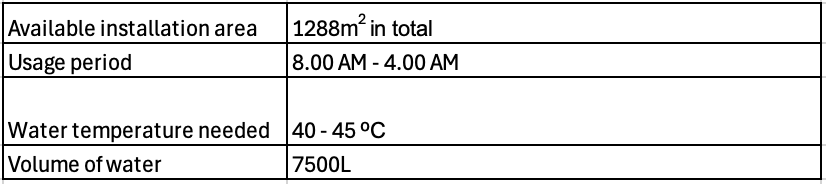
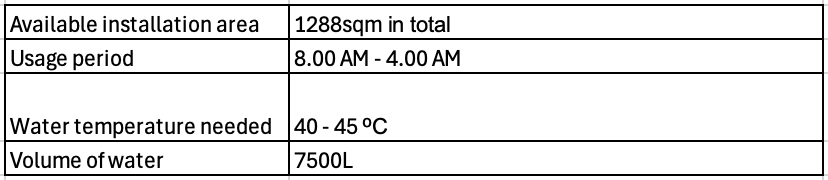
tt

Changed region(s): [[0.0, 0.0, 1.0, 1.0]]

diff --git a/ch2.html b/ch2.html
@@ -56,35 +56,27 @@
         <h1>2.0 System Design</h1>
         <h2>2.1 Case study</h2>
         <p>
-          The layout of the hotel is approximated below, with a usable implementation area of
-          <math>
-            <mn>1288</mn>
-            <msup>
-              <mi>m</mi>
-              <mn>2</mn>
-            </msup>
-          </math>
-          (greyed out) identified from the total land area of 0.5 hectares, using standard hotel width dimensions as a reference. [15]
+          The layout of the hotel is approximated below, with a usable implementation area of 1288sqm (greyed out) identified from the total land area of 0.5 hectares, using standard hotel width dimensions as a reference. [15]
         </p>
         <image-component tag="image" source="assets/tt_final/overall-system/dimensions-only.jpg"
-          subtitle="Figure 02: Dimensions of hotel"></image-component>
+          subtitle="Figure 2: Dimensions of hotel"></image-component>
         <div id = "proposed-system-design"> 
         <h2>2.2 Proposed System Design</h2>
         <p>
           The functional requirements of the client are as follows:
         </p>
         <image-component tag="image" source="assets/final-functional-req.jpg"
-          subtitle="Table 01: Functional requirements of hotel [13][14]"></image-component>
+          subtitle="Table 1: Functional requirements of hotel [13][14]"></image-component>
         <p>
           The final proposed system is as follows:
         </p>
         <image-component tag="image" source="assets/tt_final/overall-system/overall-system-layout.jpg"
-          subtitle="Figure 03: Overall system layout"></image-component>
+          subtitle="Figure 3: Overall system layout"></image-component>
         <p>
           The proposed system consists of modular islands, where each island consists of multiple rigs (receiver and reflectors) connected to a thermal energy storage (TES) tank (see below).
         </p>
         <image-component tag="image" source="assets/tt_final/overall-system/system-layout-system-of-rigs.jpg"
-          subtitle="Figure 04: Layout of island"></image-component>
+          subtitle="Figure 4: Layout of island"></image-component>
         <p>
           Water is supplied to the TES tank via the water mains, which also provides pressure to drive flow to the hot water storage tank and subsequently to the showers. The hot water storage tank is located in the hotel where it reduces delay in hot water delivery, stores excess thermal energy for periods of low solar irradiance, and provides additional heating to maintain water temperatures.
         </p>
@@ -93,7 +85,7 @@
           Our system design specifications are as follows to meet the clients requirements:
         </p>
         <image-component tag="image" source="assets/des-specs-final.jpg"
-          subtitle="Table 02: Design specifications"></image-component>
+          subtitle="Table 2: Design specifications"></image-component>
         <p>
           The derivation of the design specifications are located in the appendix.
         </p>
@@ -106,7 +98,7 @@
           In Semester 1, the solar tower and parabolic dish configurations were tested independently, and the resulting static water temperatures were recorded. The solar tower configuration achieved a maximum temperature of 82 °C, while the parabolic dish reached a maximum of 61.6 °C. However, a fully integrated system combining the light capture, thermal transmission, and thermal energy storage subsystems was not developed at that stage.
         </p>
         <image-component tag="image" source="assets/chap2-interim.jpg"
-          subtitle="Figure 05: Details of interim rig"></image-component>
+          subtitle="Figure 5: Details of interim rig"></image-component>
         <h4>Enhanced Rig Design from Jan to Apr 2026</h4>
         <p>
           By the end of Semester 2, all subsystems, light , thermal transmission, and thermal energy storage were successfully integrated to form a fully functional system. The final test rig was able to heat 10 L of water to a maximum temperature of 55 °C and maintain the water temperature above 40 °C for 9 hours.
@@ -115,7 +107,7 @@
           This performance was achieved by increasing the reflective surface area, incorporating insulation to minimise heat losses, and integrating a thermal energy storage system to sustain the water temperature above the desired range.
         </p>
         <image-component tag="image" source="assets/chap2-final.jpg"
-          subtitle="Figure 06: Details of final rig"></image-component>
+          subtitle="Figure 6: Details of final rig"></image-component>
       </div>
     </div> 
          </div>
